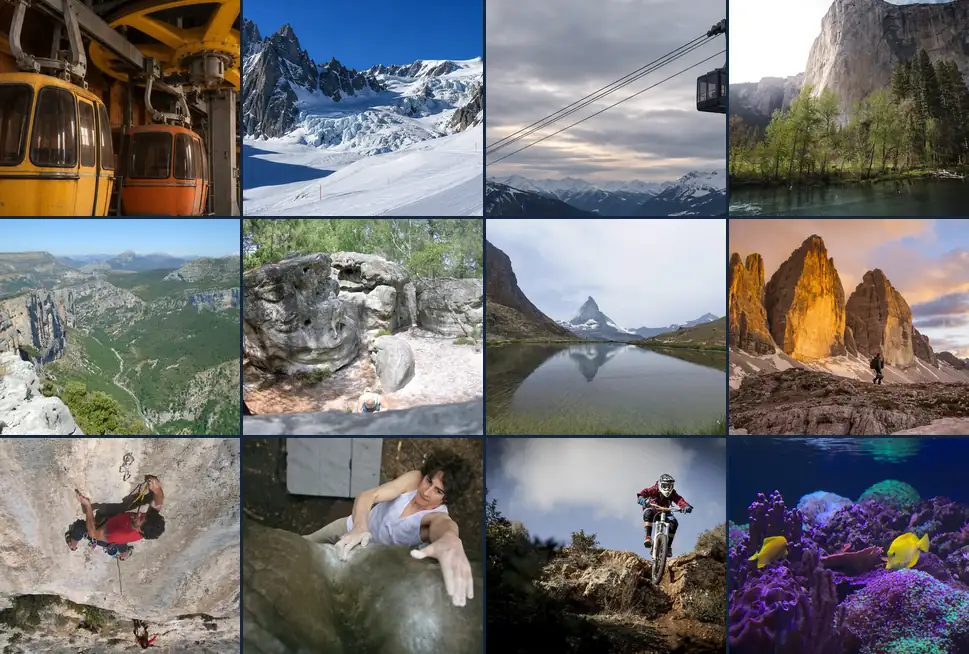
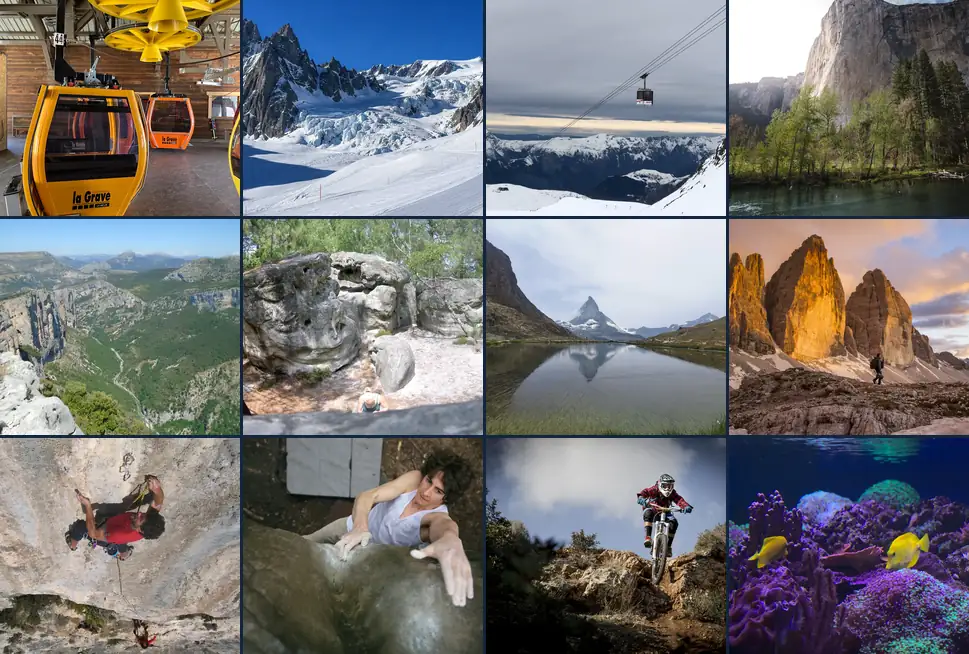
Intégrer les photos de La Grave et du Jandri et lier le catalogue EPS

diff --git a/fonds/credits.html b/fonds/credits.html
@@ -5,7 +5,9 @@
 <title>Crédits des photos du carnet</title>
 <style>body{font:18px/1.6 system-ui,sans-serif;max-width:850px;margin:40px auto;padding:20px;color:#14293e}img{max-width:100%;max-height:420px;object-fit:contain}section{margin:40px 0}a{color:#226047}</style>
 <h1>Crédits des photos du carnet</h1>
-<p>Photographies issues de Wikimedia Commons, redimensionnées et compressées au format WebP pour le carnet. Les licences ci-dessous concernent ces photographies.</p>
+<p>Les fonds du carnet sont proposés au format WebP. Les crédits et les licences sont indiqués sous chaque photo.</p>
+<section><h2>Cabines de La Grave</h2><img src="cabines.webp?v=2" alt="Cabines jaunes et orange dans la gare de La Grave"><p>Photo personnelle · EPS BARLETTA.</p></section>
+<section><h2>Téléphérique du Jandri</h2><img src="telepherique.webp?v=2" alt="Cabine du Jandri au-dessus des montagnes enneigées"><p>Photo personnelle · EPS BARLETTA.</p></section>
 <section><h2>El Capitan — Yosemite</h2><img src="el-capitan.webp" alt="Paroi d’El Capitan dans le parc de Yosemite"><p>© Clément Proust (Clementp1986, clementp.fr). <a href="https://commons.wikimedia.org/wiki/File:El_Capitan_Yosemite_California.jpg">Photo originale</a> · <a href="https://creativecommons.org/licenses/by-sa/4.0/">CC BY-SA 4.0</a>. Cette version est distribuée sous la même licence.</p></section>
 <section><h2>Gorges du Verdon</h2><img src="verdon.webp" alt="Falaises des gorges du Verdon"><p>Pimlico27. <a href="https://commons.wikimedia.org/wiki/File:Verdon_Gorge.jpg">Photo originale</a> · <a href="https://creativecommons.org/licenses/by-sa/4.0/">CC BY-SA 4.0</a>. Cette version est distribuée sous la même licence.</p></section>
 <section><h2>Blocs de Fontainebleau</h2><img src="fontainebleau.webp" alt="Blocs rocheux dans la forêt de Fontainebleau"><p>Amada44. <a href="https://commons.wikimedia.org/wiki/File:Fontainebleau_Boulders_-001.jpg">Photo originale</a> · Domaine public, libérée par son auteur.</p></section>

diff --git a/app.js b/app.js
@@ -9,9 +9,9 @@ const today = () => new Date().toISOString().slice(0, 10);
 const STORAGE_KEY = 'mon-carnet-eps-v1';
 const HOME_KEY = 'mon-carnet-eps-accueil';
 const BUILTIN_PHOTOS = {
-  'fond:cabines': ['Cabines jaunes et orange', './fonds/cabines.webp'],
+  'fond:cabines': ['Cabines de La Grave', './fonds/cabines.webp?v=2'],
   'fond:glacier': ['Glacier sous le ciel bleu', './fonds/glacier.webp'],
-  'fond:telepherique': ['Téléphérique dans les Alpes', './fonds/telepherique.webp'],
+  'fond:telepherique': ['Téléphérique du Jandri', './fonds/telepherique.webp?v=2'],
   'fond:el-capitan': ['Escalade · El Capitan — Yosemite', './fonds/el-capitan.webp'],
   'fond:verdon': ['Escalade · Gorges du Verdon', './fonds/verdon.webp'],
   'fond:fontainebleau': ['Escalade · Blocs de Fontainebleau', './fonds/fontainebleau.webp'],
@@ -567,6 +567,7 @@ function renderMenu() {
     <nav class="home-actions" aria-label="Options de l’accueil">
       <a class="action" href="#creer">Créer une classe</a>
       <a class="action" href="#personnaliser">Personnaliser</a>
+      <a class="action" href="https://eps-barletta.github.io/EPS-BARLETTA-mes-outils/index.html" target="_blank" rel="noopener">EPS BARLETTA - MES OUTILS</a>
     </nav>
   </section>`;
 }

diff --git a/sw.js b/sw.js
@@ -1,4 +1,4 @@
-const CACHE = 'mon-carnet-eps-v50';
+const CACHE = 'mon-carnet-eps-v51';
 const ASSETS = [
   './', './index.html', './manifest.webmanifest', './app.js', './app.css', './board.js', './board.css', './capture.js', './session.js', './carnet.js', './carnet.css',
   './store.js', './lock.js', './lock.css', './classeur-import.js', './pp/bulletin.js', './pp/analyse.js', './pp/ui.js', './pp/vendor/pdf.min.mjs', './pp/vendor/pdf.worker.min.mjs', './pp/vendor/pdf.worker.mjs', './pp/vendor/polyfills.mjs', './classeur/', './classeur/index.html', './classeur/bridge.js', './classeur/notes.js', './classeur/assets/app.js', './classeur/assets/app.css', './classeur/assets/referentiel.js', './classeur/assets/ccf.js', './classeur/assets/icon.svg', './crypto.js', './cloud.js', './backup.js', './bulletins.js', './portraits.js', './ocr/client/tesseract.min.js', './ocr/client/worker.min.js',

diff --git a/lock.css b/lock.css
@@ -3,12 +3,12 @@ html.carnet-locked body > *:not(#carnetLock) { visibility: hidden; }
 .carnet-lock {
   position: fixed; inset: 0; z-index: 1000; display: flex; flex-direction: column;
   box-sizing: border-box; overflow-y: auto; padding: clamp(16px, 4vw, 24px);
-  --lock-mosaic: url("./fonds/verrou-paysage.webp");
+  --lock-mosaic: url("./fonds/verrou-paysage.webp?v=2");
   background: linear-gradient(rgb(14 28 46 / 52%), rgb(14 28 46 / 66%)), var(--lock-mosaic) center / cover no-repeat #14263d;
   color: #fff; font-family: system-ui, -apple-system, sans-serif;
 }
 @media (orientation: portrait) {
-  .carnet-lock { --lock-mosaic: url("./fonds/verrou-portrait.webp"); }
+  .carnet-lock { --lock-mosaic: url("./fonds/verrou-portrait.webp?v=2"); }
 }
 .carnet-lock[hidden] { display: none; }
 .carnet-lock-box {

diff --git a/index.html b/index.html
@@ -9,7 +9,7 @@
   <meta name="description" content="Appel, notes et tableau blanc des classes en EPS.">
   <title>Mon Carnet de bord EPS</title>
   <link rel="stylesheet" href="./app.css?v=30">
-  <link rel="stylesheet" href="./lock.css?v=3">
+  <link rel="stylesheet" href="./lock.css?v=4">
   <link rel="stylesheet" href="./board.css?v=14">
   <link rel="manifest" href="./manifest.webmanifest">
   <script defer src="./portraits.js?v=10"></script>
@@ -30,7 +30,7 @@
   <script defer src="./classeur/notes.js?v=1"></script>
   <script defer src="./classeur-import.js?v=3"></script>
   <script defer src="./backup.js?v=7"></script>
-  <script defer src="./app.js?v=19"></script>
+  <script defer src="./app.js?v=20"></script>
 </head>
 <body>
   <header class="app-header">

diff --git a/classeur/index.html b/classeur/index.html
@@ -12,7 +12,7 @@
 <meta name="apple-mobile-web-app-capable" content="yes">
 <meta name="apple-mobile-web-app-status-bar-style" content="black-translucent">
 <link rel="stylesheet" href="assets/app.css?v=c4">
-<link rel="stylesheet" href="../lock.css?v=3">
+<link rel="stylesheet" href="../lock.css?v=4">
 </head>
 <body>
 <div id="app"><p style="padding:24px;font-family:system-ui">Ouverture des évaluations…</p></div>
